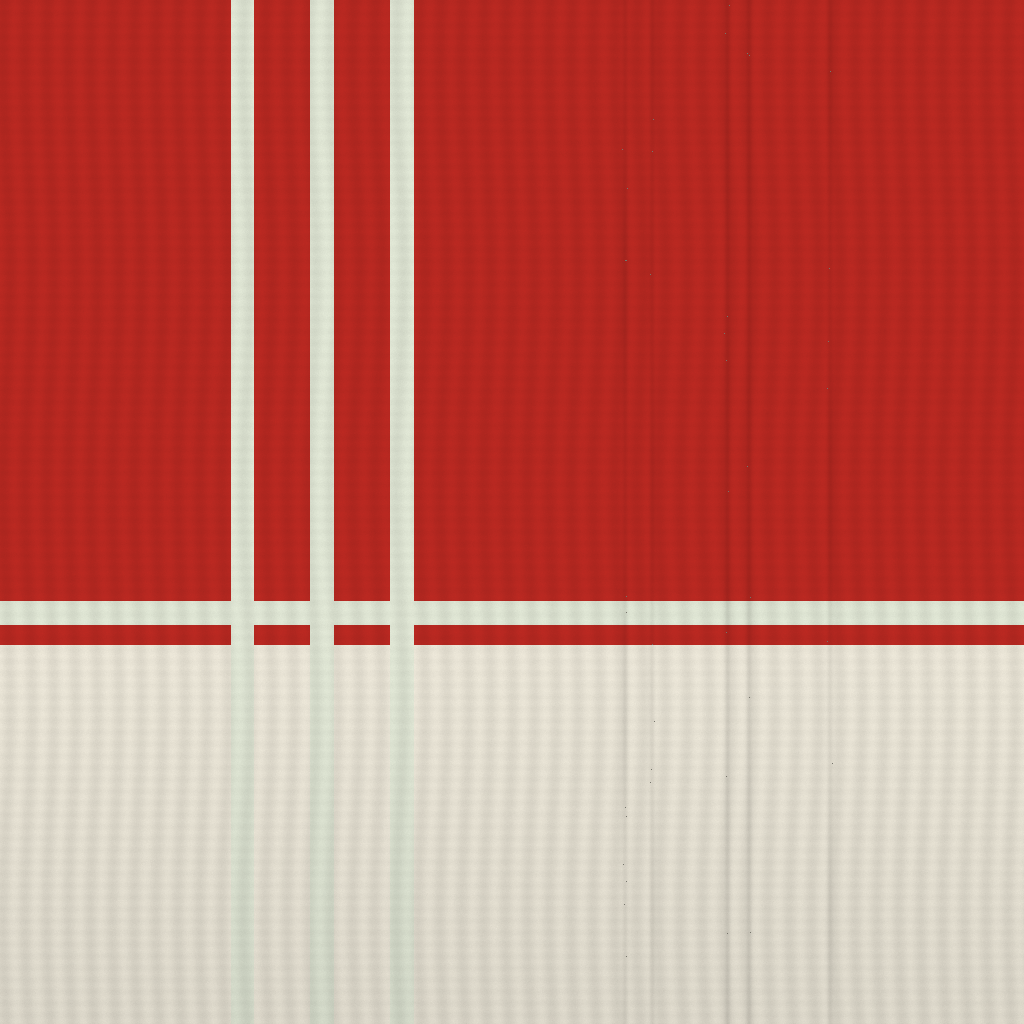
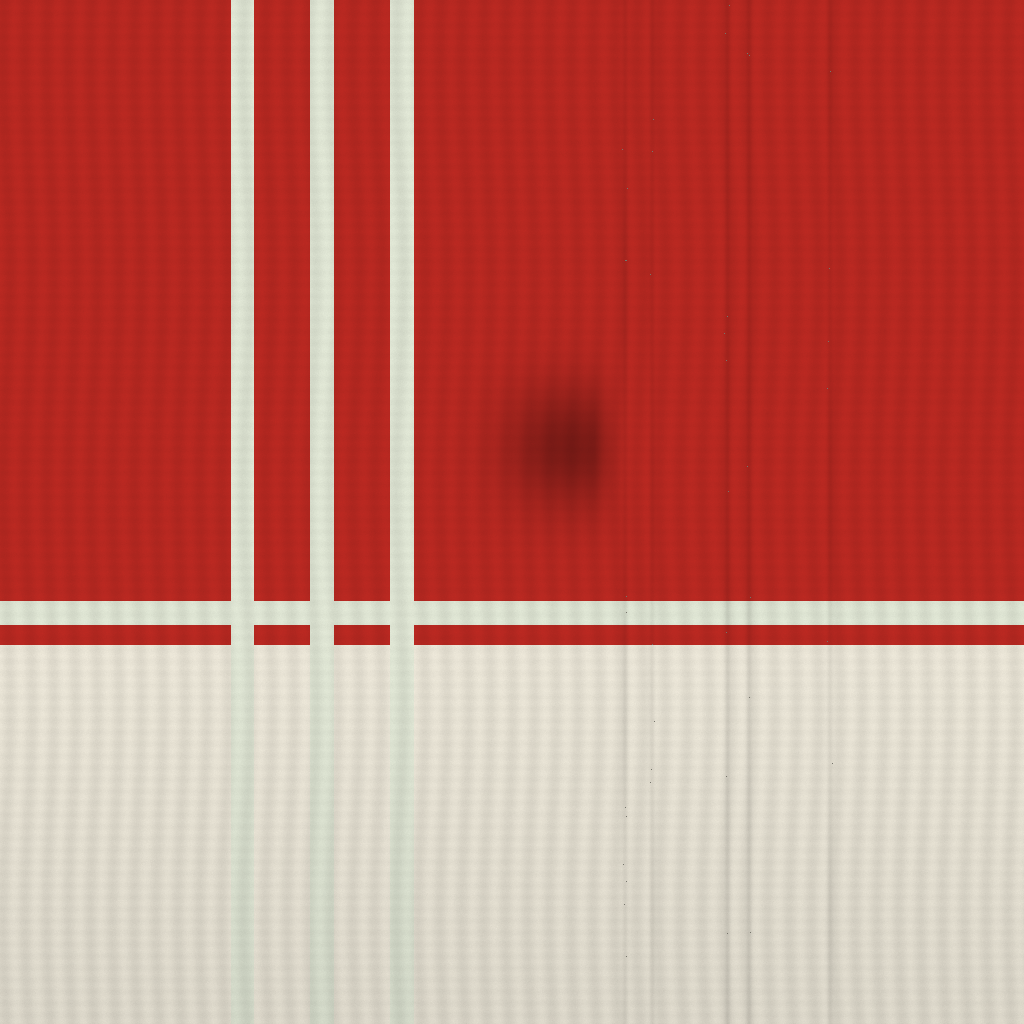
art(heli): refine rank liveries and add light working wear

Changed region(s): [[0.5, 0.375, 0.5938, 0.5]]

diff --git a/src/heli/heli-rank-paint.js b/src/heli/heli-rank-paint.js
@@ -7,7 +7,32 @@ const FINISH = { 'rank-student': [.43, .3], 'rank-private': [.24, .65], 'rank-co
 
 export function createRankPaint({THREE, loadTexture = url => new THREE.TextureLoader().loadAsync(url)}) {
   const cache = new Map(), original = new Map(), geometries = new Set();
+  const skidMaterials = new Map();
   let model = null, wanted = null, drawn = null, disposed = false;
+  function scuffSkids(object, active) {
+    if (object.name !== 'skids' && object.parent?.name !== 'skids') return;
+    if (active && !skidMaterials.has(object)) {
+      const base = object.material, materials = Array.isArray(base) ? base : [base];
+      const worn = materials.map(material => {
+        const copy = material.clone();
+        copy.onBeforeCompile = shader => {
+          shader.vertexShader = 'varying vec3 vRankSkidPosition;\n' + shader.vertexShader;
+          shader.vertexShader = shader.vertexShader.replace('#include <begin_vertex>', '#include <begin_vertex>\nvRankSkidPosition = position;');
+          shader.fragmentShader = 'varying vec3 vRankSkidPosition;\n' + shader.fragmentShader;
+          shader.fragmentShader = shader.fragmentShader.replace('#include <color_fragment>', `#include <color_fragment>
+            float skidContact = 1.0 - smoothstep(0.10, 0.20, vRankSkidPosition.y);
+            float skidScratch = smoothstep(0.60, 0.93, sin(vRankSkidPosition.z * 51.0 + vRankSkidPosition.x * 18.0))
+              * smoothstep(0.35, 0.8, sin(vRankSkidPosition.y * 470.0));
+            diffuseColor.rgb *= 1.0 - skidContact * (0.24 + 0.30 * skidScratch);`);
+        };
+        copy.customProgramCacheKey = () => 'heli-logbook-skid-scuffs-v1';
+        return copy;
+      });
+      skidMaterials.set(object, {base, worn: Array.isArray(base) ? worn : worn[0]});
+    }
+    const saved = skidMaterials.get(object);
+    if (saved) object.material = active ? saved.worn : saved.base;
+  }
   function textureFor(id) {
     if (!cache.has(id)) cache.set(id, loadTexture(`/assets/heli/skins/${id}.png`).then(texture => {
       if (disposed) { texture.dispose(); return null; }
@@ -21,6 +46,7 @@ export function createRankPaint({THREE, loadTexture = url => new THREE.TextureLo
     if (!model || disposed || wanted !== id) return;
     model.traverse(object => {
       if (!object.isMesh) return;
+      scuffSkids(object, !!id);
       const materials = Array.isArray(object.material) ? object.material : [object.material];
       if (!materials.some(material => PAINT_MATERIALS.has(material.name))) return;
       if (id && !geometries.has(object)) {
@@ -58,6 +84,11 @@ export function createRankPaint({THREE, loadTexture = url => new THREE.TextureLo
     },
     dispose() {
       disposed = true;
+      for (const [object, saved] of skidMaterials) {
+        object.material = saved.base;
+        for (const material of Array.isArray(saved.worn) ? saved.worn : [saved.worn]) material.dispose();
+      }
+      skidMaterials.clear();
       for (const promise of cache.values()) void promise.then(texture => texture?.dispose());
       original.clear(); geometries.clear(); model = null;
     },

diff --git a/tools/blender/heli-logbook-paints.py b/tools/blender/heli-logbook-paints.py
@@ -1,4 +1,4 @@
-"""HELI-LOGBOOK round 1: five texture variants for the current Kestrel One.
+"""HELI-LOGBOOK round 2: five texture variants for the current Kestrel One.
 
 blender -b --factory-startup --python tools/blender/heli-logbook-paints.py -- --root . --originals <outside-repo> [--render .evidence/...]
 
@@ -54,12 +54,18 @@ def polygon(points):
         inside ^= ((a[1] > y) != (b[1] > y)) & (z < (b[0]-a[0]) * (y-a[1]) / (b[1]-a[1] + 1e-15) + a[0])
     return inside
 
-# A compact original kestrel silhouette, perched with folded wings, hooked
-# beak, long tail, two feet. The chief's brush edge is intentionally uneven.
-bird = polygon([( .49,1.12),(.64,1.25),(.64,1.42),(.69,1.51),(.80,1.53),(.89,1.49),(.97,1.46),
-                (.87,1.44),(.83,1.35),(.84,1.24),(.79,1.14),(.70,1.11),(.63,1.05),(.48,.98),(.54,1.13)])
-feet = ((abs(z-.69) < .012) | (abs(z-.76)<.012)) & (y>1.07)&(y<1.16)
-branch = (y>1.06)&(y<1.075)&(z>.58)&(z<.85)
+# Round 2: an original kestrel in flight, spanning one metre of the boom.
+# Its compact height fits painted metal above and below the boom centre;
+# the old door motif was hidden by the canopy. No lettering or real logo.
+bird = polygon([(-3.94,1.55),(-3.62,1.59),(-3.37,1.56),(-3.27,1.61),
+                (-3.19,1.62),(-3.11,1.59),(-3.03,1.57),(-3.14,1.55),
+                (-3.21,1.52),(-3.09,1.45),(-3.32,1.50),(-3.42,1.47),
+                (-3.67,1.43),(-3.49,1.53),(-3.70,1.53)])
+wing = polygon([(-3.78,1.55),(-3.51,1.57),(-3.34,1.54),(-3.46,1.53)])
+# Engine outlet is at z=-1.10, y=1.70. A thin soot plume fades aft onto
+# the tail root, rather than spreading an arbitrary dirty coat everywhere.
+soot = np.exp(-((z + 1.50)/.60)**2 - ((y - 1.69)/.18)**2) * .34
+soot *= np.clip((-z - 1.0)/.28, 0, 1)
 
 palettes = {
     'rank-student': ('e3dfd5','df591c','df591c'),
@@ -77,17 +83,30 @@ for ident, (upper, lower, stripe) in palettes.items():
         # Three orange training bands wrapping around the tail boom.
         bands = ((z < -2.8) & (z > -4.75) & (np.mod(-z + y*.2, .62)<.24))
         rgb[bands] = colour('df591c')
+    if ident == 'rank-private':
+        rgb[:] = colour(upper)
+        # The waist rises onto the boom. A continuous 13 cm silver line
+        # follows the available metal, instead of ending below the tail.
+        aft = np.clip(-z / 1.7, 0, 1)
+        line_y = 1.16 + .38 * (aft*aft*(3-2*aft))
+        rgb[abs(y-line_y)<.065] = colour('e1e5e6')
+    if ident == 'rank-commercial':
+        rgb[y<1.02] = colour(upper)
+        rgb[(y>=1.06)&(y<1.43)&(z> -1.65)] = colour('e7dcc0')
+    if ident == 'rank-chief':
+        rgb[y<1.33] = colour('bd3829')
+        rgb[(z< -5.65)&(y>1.62)] = colour('bd3829')
     if ident == 'rank-mountain':
         bands = ((z < -2.9)&(z > -4.9)&(np.mod(-z,.74)<.22)) | ((y>1.17)&(y<1.24))
         rgb[bands] = colour('d9dfce')
     rgb *= np.clip(1 - dirt[...,None] + wear[...,None] + grain[...,None], .55, 1.1)
     rgb[chips & (seams>.25)] = colour('77756c')
+    rgb *= (1-soot[...,None])
     if ident in ['rank-commercial','rank-chief']:
-        mask = bird | feet | branch
+        mask = bird.copy()
         if ident == 'rank-chief': mask &= np.sin(z*370 + y*43) + np.cos(y*270) > -1.85
         rgb[mask] = colour('d9c9a1' if ident == 'rank-commercial' else '823728')
-        # A slim wing stroke and the eye keep the silhouette bird-like.
-        wing = (abs(z-(.75 + (y-1.27)*.4))<.012)&(y>1.18)&(y<1.37)&bird
+        # A slim wing stroke keeps the original silhouette bird-like.
         rgb[wing] = colour('6e5536' if ident == 'rank-commercial' else 'cba97d')
     rgba = np.concatenate([np.clip(rgb,0,1), np.ones((N,N,1))], axis=2).astype(np.float32)
     image = bpy.data.images.new(ident, width=N, height=N, alpha=False)

diff --git a/tools/art/heli-logbook-sheet.py b/tools/art/heli-logbook-sheet.py
@@ -1,6 +1,6 @@
-"""Compose ROUND 1's native game-renderer pictures, without painting over them.
+"""Compose a paint round's native game-renderer pictures, without painting over them.
 
-python tools/art/heli-logbook-sheet.py <browser evidence> <round-1.jpg>
+python tools/art/heli-logbook-sheet.py <browser evidence> <round-N.jpg> [round]
 The same central 960x600 region is cropped for every view. Both native
 qualities and distances are kept, alongside the current stock helicopter.
 """
@@ -9,6 +9,7 @@ from pathlib import Path
 from PIL import Image, ImageDraw, ImageFont
 
 folder, out = Path(sys.argv[1]), Path(sys.argv[2])
+round_number = int(sys.argv[3]) if len(sys.argv)>3 else 1
 paints = [('stock','Current stock'),('rank-student','Student: white / training orange'),
           ('rank-private','Private: midnight / silver'),('rank-commercial','Commercial: forest / cream / kestrel'),
           ('rank-mountain','Mountain: rescue red / reflective bands'),('rank-chief','Chief: Gus cream / signal red / kestrel')]
@@ -19,7 +20,7 @@ draw=ImageDraw.Draw(sheet)
 try:
     font=ImageFont.truetype('arial.ttf',15); title=ImageFont.truetype('arial.ttf',24)
 except OSError: font=title=ImageFont.load_default()
-draw.text((12,8),'HELI-LOGBOOK | ROUND 1 | 26 October 2026 | For Claude',font=title,fill=(235,228,211))
+draw.text((12,8),f'HELI-LOGBOOK | ROUND {round_number} | 26 October 2026 | For Claude',font=title,fill=(235,228,211))
 draw.text((12,39),'Current Kestrel One in the game renderer. Same pad. Near = 24 deg lens; distance = native 55 deg lens. No timing.',font=font,fill=(198,204,203))
 for row,(ident,name) in enumerate(paints):
     for col,(quality,distance) in enumerate(columns):

diff --git a/docs/WASTELAND_ART.md b/docs/WASTELAND_ART.md
@@ -316,46 +316,46 @@ these references do not count as completed Blender fidelity rounds.
 Date: 2026-10-26
 Tool: Blender 4.5.13 LTS, NumPy; original deterministic recipe `tools/blender/heli-logbook-paints.py`, seed 1964. No image generator or external art.
 Use: Runtime colour map on the existing Kestrel One Blender model's `paint_white`, `paint_navy`, and `paint_red` surfaces. `src/heli/heli-rank-paint.js` projects the side livery by glTF metres: u=(z+6.8)/9.5, v=y/3. Glass, rotors, metal and cockpit retain their existing materials. This is a texture, never a prerendered vehicle picture.
-Contract: 1024 x 1024 opaque RGB PNG, at most 1,500,000 bytes. Round 1 candidate; Claude's review pending. Original output was generated outside the repository in `%TEMP%/duel-heli-logbook-originals-2026-10-26/` and recycled after the round 1 observations were recorded; only the runtime copy is checked in. The deterministic recipe regenerates it.
+Contract: 1024 x 1024 opaque RGB PNG, at most 1,500,000 bytes. Round 2 candidate; Claude's second-round review pending. Student and Mountain colours were accepted in round 1; round 2 adds the requested local wear only to those two. Round 2 original output was generated outside the repository in `%TEMP%/duel-heli-logbook-originals-round-2-2026-10-26/`; only the runtime copy is checked in. Originals are recycled after the review observations are recorded. The deterministic recipe regenerates them.
 Prompt (full procedural art brief):
-> Create an original, practical light-helicopter livery for the existing Kestrel One airframe, using its exact Blender-recipe proportions. Flight-school warm white with high-visibility orange lower panels, a slim waist stripe and three diagonal orange training bands wrapping the tail. Restrained seeded paint grain, fine vertical rain streaks, panel-seam dirt, small rubbed aluminium flecks; maintained working aircraft rather than a toy. Keep glass, mechanical metal, skids, dark rotor and safety tips as they are. Paint changes no geometry. No brands, logos, readable text, franchise likeness, costumes, symbols, gore or external source art. Paint in metres so both doors and the boom agree. Generate one opaque 1024-square PNG colour map. Near and distance views of High and Performance in the native game renderer are the round 1 review; no art acceptance is claimed.
+> Create an original, practical light-helicopter livery for the existing Kestrel One airframe, using its exact Blender-recipe proportions. Flight-school warm white with high-visibility orange lower panels, a slim waist stripe and three diagonal orange training bands wrapping the tail. Light realistic exhaust soot immediately behind the engine outlet, fading aft onto the tail root; genuine scuffed skid material through the rank-paint renderer, with fine rubbed contact marks and darker scratches limited to the lower rails. Restrained seeded paint grain, fine vertical rain streaks, panel-seam dirt, small rubbed aluminium flecks; maintained working aircraft rather than a toy. Keep glass, mechanical metal, skids, dark rotor and safety tips as they are. Paint changes no geometry. No brands, logos, readable text, franchise likeness, costumes, symbols, gore or external source art. Paint in metres so both doors and the boom agree. Generate one opaque 1024-square PNG colour map. The same near and distance views as round 1, in High and Performance in the native game renderer, are the round 2 review; no art acceptance is claimed.
 
 ## public/assets/heli/skins/rank-private.png
 
 Date: 2026-10-26
 Tool: Blender 4.5.13 LTS, NumPy; original deterministic recipe `tools/blender/heli-logbook-paints.py`, seed 1964. No image generator or external art.
 Use: Runtime colour map on the existing Kestrel One Blender model's `paint_white`, `paint_navy`, and `paint_red` surfaces. `src/heli/heli-rank-paint.js` projects the side livery by glTF metres: u=(z+6.8)/9.5, v=y/3. Glass, rotors, metal and cockpit retain their existing materials. This is a texture, never a prerendered vehicle picture.
-Contract: 1024 x 1024 opaque RGB PNG, at most 1,500,000 bytes. Round 1 candidate; Claude's review pending. Original output was generated outside the repository in `%TEMP%/duel-heli-logbook-originals-2026-10-26/` and recycled after the round 1 observations were recorded; only the runtime copy is checked in. The deterministic recipe regenerates it.
+Contract: 1024 x 1024 opaque RGB PNG, at most 1,500,000 bytes. Round 2 candidate; Claude's second-round review pending. Student and Mountain colours were accepted in round 1; round 2 adds the requested local wear only to those two. Round 2 original output was generated outside the repository in `%TEMP%/duel-heli-logbook-originals-round-2-2026-10-26/`; only the runtime copy is checked in. Originals are recycled after the review observations are recorded. The deterministic recipe regenerates them.
 Prompt (full procedural art brief):
-> Create an original, practical light-helicopter livery for the existing Kestrel One airframe, using its exact Blender-recipe proportions. Gloss midnight-blue private-owner paint, silver waist cheat line, subtle clear coat and fine restrained surface wear. Restrained seeded paint grain, fine vertical rain streaks, panel-seam dirt, small rubbed aluminium flecks; maintained working aircraft rather than a toy. Keep glass, mechanical metal, skids, dark rotor and safety tips as they are. Paint changes no geometry. No brands, logos, readable text, franchise likeness, costumes, symbols, gore or external source art. Paint in metres so both doors and the boom agree. Generate one opaque 1024-square PNG colour map. Near and distance views of High and Performance in the native game renderer are the round 1 review; no art acceptance is claimed.
+> Create an original, practical light-helicopter livery for the existing Kestrel One airframe, using its exact Blender-recipe proportions. Gloss midnight-blue private-owner paint, with one bright silver cheat line about 13 cm wide along the whole cabin and tail boom. It follows the cabin waist up onto the boom, remaining continuous on painted metal. Subtle clear coat and fine restrained surface wear. Light realistic exhaust soot immediately behind the engine outlet, fading aft onto the tail root; genuine scuffed skid material through the rank-paint renderer, with fine rubbed contact marks and darker scratches limited to the lower rails. Restrained seeded paint grain, fine vertical rain streaks, panel-seam dirt, small rubbed aluminium flecks; maintained working aircraft rather than a toy. Keep glass, mechanical metal, skids, dark rotor and safety tips as they are. Paint changes no geometry. No brands, logos, readable text, franchise likeness, costumes, symbols, gore or external source art. Paint in metres so both doors and the boom agree. Generate one opaque 1024-square PNG colour map. The same near and distance views as round 1, in High and Performance in the native game renderer, are the round 2 review; no art acceptance is claimed.
 
 ## public/assets/heli/skins/rank-commercial.png
 
 Date: 2026-10-26
 Tool: Blender 4.5.13 LTS, NumPy; original deterministic recipe `tools/blender/heli-logbook-paints.py`, seed 1964. No image generator or external art.
 Use: Runtime colour map on the existing Kestrel One Blender model's `paint_white`, `paint_navy`, and `paint_red` surfaces. `src/heli/heli-rank-paint.js` projects the side livery by glTF metres: u=(z+6.8)/9.5, v=y/3. Glass, rotors, metal and cockpit retain their existing materials. This is a texture, never a prerendered vehicle picture.
-Contract: 1024 x 1024 opaque RGB PNG, at most 1,500,000 bytes. Round 1 candidate; Claude's review pending. Original output was generated outside the repository in `%TEMP%/duel-heli-logbook-originals-2026-10-26/` and recycled after the round 1 observations were recorded; only the runtime copy is checked in. The deterministic recipe regenerates it.
+Contract: 1024 x 1024 opaque RGB PNG, at most 1,500,000 bytes. Round 2 candidate; Claude's second-round review pending. Student and Mountain colours were accepted in round 1; round 2 adds the requested local wear only to those two. Round 2 original output was generated outside the repository in `%TEMP%/duel-heli-logbook-originals-round-2-2026-10-26/`; only the runtime copy is checked in. Originals are recycled after the review observations are recorded. The deterministic recipe regenerates them.
 Prompt (full procedural art brief):
-> Create an original, practical light-helicopter livery for the existing Kestrel One airframe, using its exact Blender-recipe proportions. The lodge air service: forest-green upper fuselage and tail, cream lower panels and cheat line. An original small cream kestrel silhouette on each door, perched with folded wing, hooked beak, long tail and two feet; no letters. Restrained seeded paint grain, fine vertical rain streaks, panel-seam dirt, small rubbed aluminium flecks; maintained working aircraft rather than a toy. Keep glass, mechanical metal, skids, dark rotor and safety tips as they are. Paint changes no geometry. No brands, logos, readable text, franchise likeness, costumes, symbols, gore or external source art. Paint in metres so both doors and the boom agree. Generate one opaque 1024-square PNG colour map. Near and distance views of High and Performance in the native game renderer are the round 1 review; no art acceptance is claimed.
+> Create an original, practical light-helicopter livery for the existing Kestrel One airframe, using its exact Blender-recipe proportions. The lodge air service: forest green with a clear broad cream cabin-side band. Move the kestrel from the glass-obscured door onto the painted tail boom: a large original cream flying silhouette with hooked beak, outstretched wings and tapered tail, about one metre long, fitting the boom height so it reads in the near view; no letters. Light realistic exhaust soot immediately behind the engine outlet, fading aft onto the tail root; genuine scuffed skid material through the rank-paint renderer, with fine rubbed contact marks and darker scratches limited to the lower rails. Restrained seeded paint grain, fine vertical rain streaks, panel-seam dirt, small rubbed aluminium flecks; maintained working aircraft rather than a toy. Keep glass, mechanical metal, skids, dark rotor and safety tips as they are. Paint changes no geometry. No brands, logos, readable text, franchise likeness, costumes, symbols, gore or external source art. Paint in metres so both doors and the boom agree. Generate one opaque 1024-square PNG colour map. The same near and distance views as round 1, in High and Performance in the native game renderer, are the round 2 review; no art acceptance is claimed.
 
 ## public/assets/heli/skins/rank-mountain.png
 
 Date: 2026-10-26
 Tool: Blender 4.5.13 LTS, NumPy; original deterministic recipe `tools/blender/heli-logbook-paints.py`, seed 1964. No image generator or external art.
 Use: Runtime colour map on the existing Kestrel One Blender model's `paint_white`, `paint_navy`, and `paint_red` surfaces. `src/heli/heli-rank-paint.js` projects the side livery by glTF metres: u=(z+6.8)/9.5, v=y/3. Glass, rotors, metal and cockpit retain their existing materials. This is a texture, never a prerendered vehicle picture.
-Contract: 1024 x 1024 opaque RGB PNG, at most 1,500,000 bytes. Round 1 candidate; Claude's review pending. Original output was generated outside the repository in `%TEMP%/duel-heli-logbook-originals-2026-10-26/` and recycled after the round 1 observations were recorded; only the runtime copy is checked in. The deterministic recipe regenerates it.
+Contract: 1024 x 1024 opaque RGB PNG, at most 1,500,000 bytes. Round 2 candidate; Claude's second-round review pending. Student and Mountain colours were accepted in round 1; round 2 adds the requested local wear only to those two. Round 2 original output was generated outside the repository in `%TEMP%/duel-heli-logbook-originals-round-2-2026-10-26/`; only the runtime copy is checked in. Originals are recycled after the review observations are recorded. The deterministic recipe regenerates them.
 Prompt (full procedural art brief):
-> Create an original, practical light-helicopter livery for the existing Kestrel One airframe, using its exact Blender-recipe proportions. Mountain rescue: high-visibility signal-red upper surfaces and white lower panels; pale silver-white reflective waist and tail bands. No cross, lettering or service emblem. Restrained seeded paint grain, fine vertical rain streaks, panel-seam dirt, small rubbed aluminium flecks; maintained working aircraft rather than a toy. Keep glass, mechanical metal, skids, dark rotor and safety tips as they are. Paint changes no geometry. No brands, logos, readable text, franchise likeness, costumes, symbols, gore or external source art. Paint in metres so both doors and the boom agree. Generate one opaque 1024-square PNG colour map. Near and distance views of High and Performance in the native game renderer are the round 1 review; no art acceptance is claimed.
+> Create an original, practical light-helicopter livery for the existing Kestrel One airframe, using its exact Blender-recipe proportions. Mountain rescue: high-visibility signal-red upper surfaces and white lower panels; pale silver-white reflective waist and tail bands. No cross, lettering or service emblem. Light realistic exhaust soot immediately behind the engine outlet, fading aft onto the tail root; genuine scuffed skid material through the rank-paint renderer, with fine rubbed contact marks and darker scratches limited to the lower rails. Restrained seeded paint grain, fine vertical rain streaks, panel-seam dirt, small rubbed aluminium flecks; maintained working aircraft rather than a toy. Keep glass, mechanical metal, skids, dark rotor and safety tips as they are. Paint changes no geometry. No brands, logos, readable text, franchise likeness, costumes, symbols, gore or external source art. Paint in metres so both doors and the boom agree. Generate one opaque 1024-square PNG colour map. The same near and distance views as round 1, in High and Performance in the native game renderer, are the round 2 review; no art acceptance is claimed.
 
 ## public/assets/heli/skins/rank-chief.png
 
 Date: 2026-10-26
 Tool: Blender 4.5.13 LTS, NumPy; original deterministic recipe `tools/blender/heli-logbook-paints.py`, seed 1964. No image generator or external art.
 Use: Runtime colour map on the existing Kestrel One Blender model's `paint_white`, `paint_navy`, and `paint_red` surfaces. `src/heli/heli-rank-paint.js` projects the side livery by glTF metres: u=(z+6.8)/9.5, v=y/3. Glass, rotors, metal and cockpit retain their existing materials. This is a texture, never a prerendered vehicle picture.
-Contract: 1024 x 1024 opaque RGB PNG, at most 1,500,000 bytes. Round 1 candidate; Claude's review pending. Original output was generated outside the repository in `%TEMP%/duel-heli-logbook-originals-2026-10-26/` and recycled after the round 1 observations were recorded; only the runtime copy is checked in. The deterministic recipe regenerates it.
+Contract: 1024 x 1024 opaque RGB PNG, at most 1,500,000 bytes. Round 2 candidate; Claude's second-round review pending. Student and Mountain colours were accepted in round 1; round 2 adds the requested local wear only to those two. Round 2 original output was generated outside the repository in `%TEMP%/duel-heli-logbook-originals-round-2-2026-10-26/`; only the runtime copy is checked in. Originals are recycled after the review observations are recorded. The deterministic recipe regenerates them.
 Prompt (full procedural art brief):
-> Create an original, practical light-helicopter livery for the existing Kestrel One airframe, using its exact Blender-recipe proportions. Gus's restored 1964 colours: warm aged cream upper panels, signal-red lower panels and cheat line; an original hand-painted red-brown kestrel on each door with deliberately imperfect brush edges. Maintained restored finish, no text. Restrained seeded paint grain, fine vertical rain streaks, panel-seam dirt, small rubbed aluminium flecks; maintained working aircraft rather than a toy. Keep glass, mechanical metal, skids, dark rotor and safety tips as they are. Paint changes no geometry. No brands, logos, readable text, franchise likeness, costumes, symbols, gore or external source art. Paint in metres so both doors and the boom agree. Generate one opaque 1024-square PNG colour map. Near and distance views of High and Performance in the native game renderer are the round 1 review; no art acceptance is claimed.
+> Create an original, practical light-helicopter livery for the existing Kestrel One airframe, using its exact Blender-recipe proportions. Gus's restored 1964 colours: warm aged cream, a broad signal-red belly band rising to the cabin waist, and a signal-red tail fin so both colours read at distance. An original large hand-painted red-brown flying kestrel on the tail boom, with hooked beak, wings, tapered tail and deliberately imperfect brush edges. Maintained restored finish, no text. Light realistic exhaust soot immediately behind the engine outlet, fading aft onto the tail root; genuine scuffed skid material through the rank-paint renderer, with fine rubbed contact marks and darker scratches limited to the lower rails. Restrained seeded paint grain, fine vertical rain streaks, panel-seam dirt, small rubbed aluminium flecks; maintained working aircraft rather than a toy. Keep glass, mechanical metal, skids, dark rotor and safety tips as they are. Paint changes no geometry. No brands, logos, readable text, franchise likeness, costumes, symbols, gore or external source art. Paint in metres so both doors and the boom agree. Generate one opaque 1024-square PNG colour map. The same near and distance views as round 1, in High and Performance in the native game renderer, are the round 2 review; no art acceptance is claimed.
 
 ## HELI-LOGBOOK rank paint credits
 
-`rank-student.png`, `rank-private.png`, `rank-commercial.png`, `rank-mountain.png`, and `rank-chief.png`: original procedural paint textures for The Duel, 26 October 2026. Blender 4.5.13 LTS and NumPy, recipe `tools/blender/heli-logbook-paints.py`. No external source art or licensed marks. Original kestrel silhouettes are polygon coordinates in the recipe; the airframe is Claude's original Kestrel One. Round 1 candidates; Claude's paint review is pending. Credits are recorded here because the game does not load a separate credits document from the texture folder.
+`rank-student.png`, `rank-private.png`, `rank-commercial.png`, `rank-mountain.png`, and `rank-chief.png`: original procedural paint textures for The Duel, 26 October 2026. Blender 4.5.13 LTS and NumPy, recipe `tools/blender/heli-logbook-paints.py`. No external source art or licensed marks. Original kestrel silhouettes are polygon coordinates in the recipe; the airframe is Claude's original Kestrel One. Round 2 candidates; Claude's paint review is pending. The Commercial and Chief kestrels moved to the tail boom at Claude's direction; the skid scuffs are original object-space shader marks, generated without external source art. Credits are recorded here because the game does not load a separate credits document from the texture folder.

diff --git a/docs/changes/HELI-LOGBOOK.md b/docs/changes/HELI-LOGBOOK.md
@@ -1,6 +1,35 @@
 # HELI-LOGBOOK
 
-Status: code complete; paint round 1 awaiting Claude. Switch: `heli-logbook` (dev).
+Status: paint round 2 in progress. Switch: `heli-logbook` (dev).
+
+## Paint round 2 (26 October 2026)
+
+Claude's round 1 verdict and assertion approvals are on the card. Integration
+was merged at `efadcd50`; only STATUS and the card conflicted. Kept this
+lane's STATUS and both card sections. There were no code conflicts.
+
+Round 2 follows that verdict: a hand-width bright silver cabin/boom line on
+Private; a clear cream cabin band and large tail-boom kestrel on Commercial;
+a broad red belly, red fin and tail-boom kestrel on Chief. Keep Student and
+Mountain colours and bands. Add light exhaust soot and skid scuffs to all
+five. The current airframe, ranks, saves and mission rules stay unchanged.
+
+Checks: paint helper behavior/restoration, existing Blender output planning,
+and the same native High/Performance near/distance browser pictures as round
+1; then lane tier with four jobs and production build. Read the integration
+inbox before every heavy run; wait for frame/release holds. No frame timing.
+Stop at the round 2 sheet for Claude; do not start round 3.
+
+Round 2 independent rendering review: clear. Skid materials are cloned only
+for rank paints; shared mast metal remains untouched. Switching to stock or
+mission paint restores original materials, and scene disposal releases the
+clones. No race or save state changes were added.
+
+Round 2 assertions: four new checks in `test-heli-rank-paint.mjs` require the
+skid clone, unchanged shared mast material, original skid restoration on
+paint change, and original restoration before disposal. Every existing
+assertion is retained; none is relaxed. Claude approved the round 1 changes
+on the card.
 
 ## Design before code
 

diff --git a/docs/board/cards/HELI-LOGBOOK.md b/docs/board/cards/HELI-LOGBOOK.md
@@ -56,8 +56,8 @@ card with The Deep.
 - `node tools/test-heli-jobs.mjs`: actual car and return-crate completions
   count once in the logbook.
 
-Lane tier with four jobs and production build. Round 1 paint pictures only;
-Claude's verdict is pending before any further art round. No frame timing.
+Lane tier with four jobs and production build. Paint pictures use the same
+High/Performance near/distance views each round. No frame timing.
 
 ## Round 1 handoff
 
@@ -65,11 +65,9 @@ Counting, ranks, the shelf and Gus's pages are built. Independent save and
 code review is clear. Checks and all assertion changes are recorded in
 `docs/changes/HELI-LOGBOOK.md`.
 
-Claude: review `docs/board/looks/heli-logbook/round-1.jpg` and its round note
-before rounds 2 or 3. The door kestrels are obscured by the canopy boundary;
-wear and reflective bands need a verdict. The switch stays dev. Please also
-record the required written review of the assertion expansions listed in
-the change note before merge; no limits or tolerances were loosened.
+Round 1's sheet and note are under `docs/board/looks/heli-logbook/`.
+Claude's verdict below resolves the first handoff and approves its assertion
+expansions. The switch stays dev.
 
 ## Claude's verdict, paints round 1 (26 October 2026)
 
